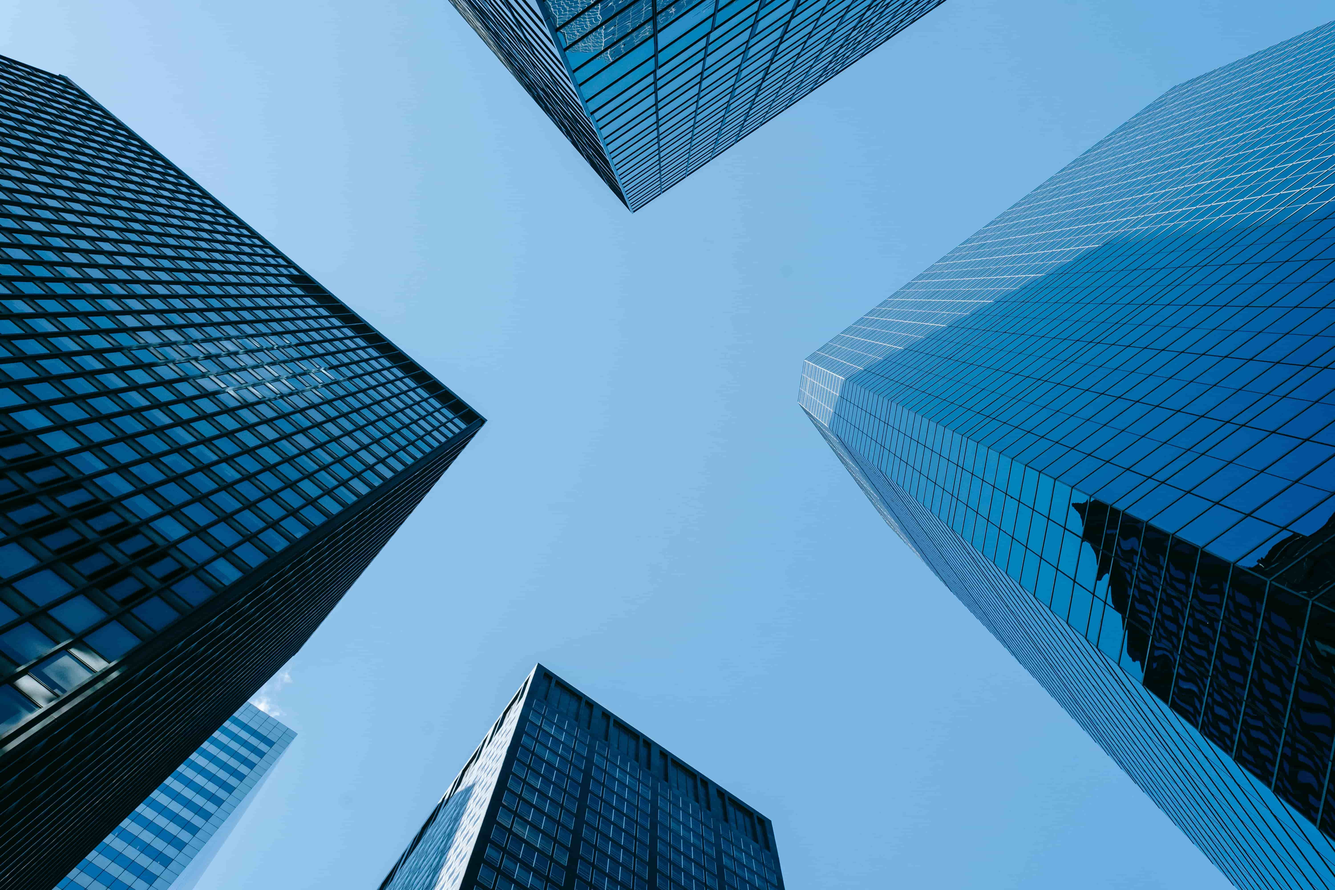
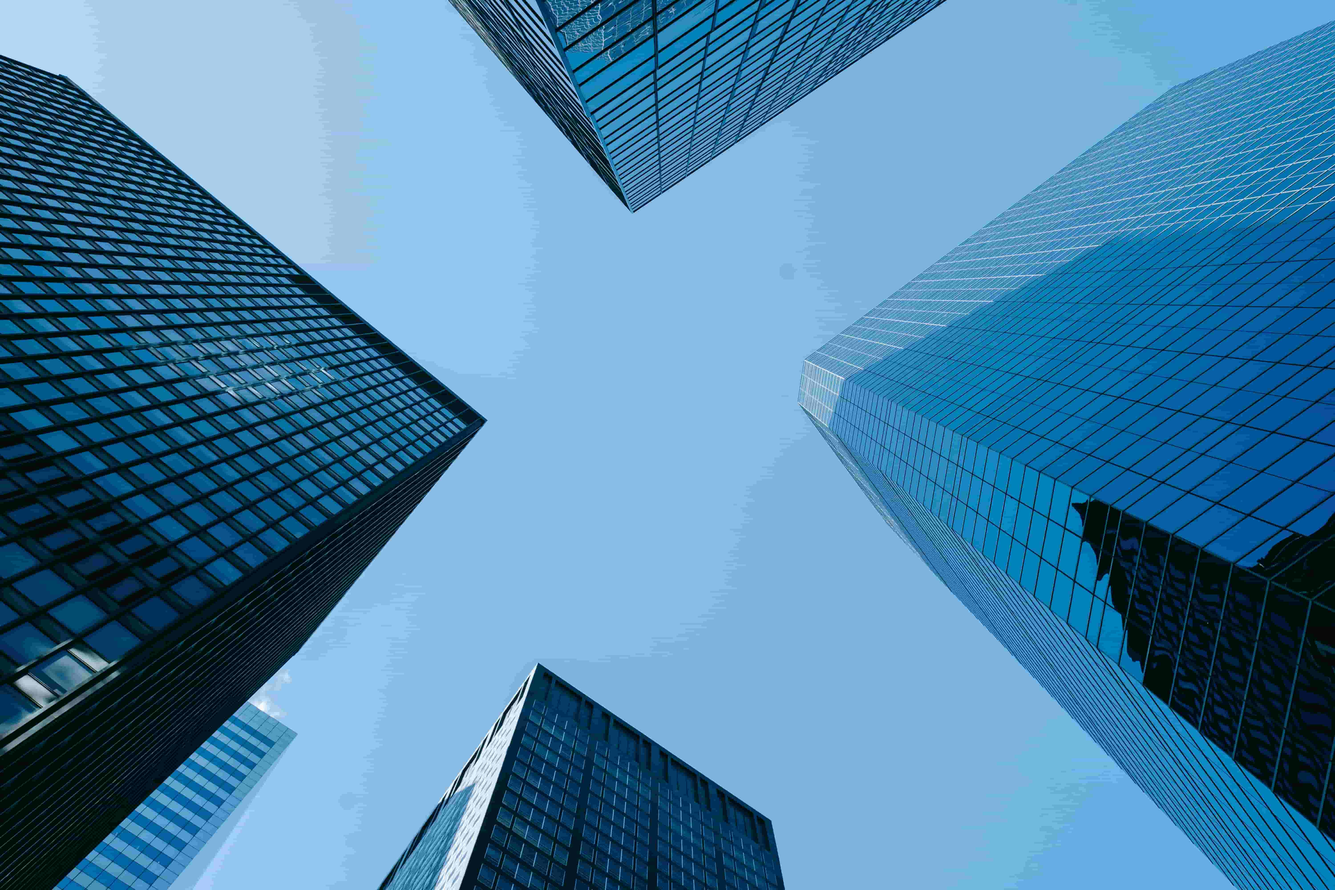
sostituzione mappa con immagine

diff --git a/_layouts/homepage.html b/_layouts/homepage.html
@@ -128,7 +128,7 @@ layout: default
     <div class="container">
         <div class="row">
             <div class="col-lg-5 col-md-12 col-sm-12 align-self-center" data-scroll-reveal="enter left move 30px over 0.6s after 0.4s">
-                <img src="{{ site.baseurl }}/assets/images/photos/business-people-working.jpg" class="rounded img-fluid d-block mx-auto" alt="App"/>
+                <img src="{{ site.baseurl }}/assets/images/business-people-working-min.jpg" class="rounded img-fluid d-block mx-auto" alt="App"/>
             </div>
             <div class="col-lg-1"></div>
             <div class="col-lg-6 col-md-12 col-sm-12 align-self-center mobile-top-fix">

diff --git a/_layouts/contatti.html b/_layouts/contatti.html
@@ -242,4 +242,3 @@ layout: default
 
 
 
-<script src="http://maps.google.com/maps/api/js?key=AIzaSyAthC_2x5GtKhiH7rUumkMbwvp31qyFyA8"></script>
